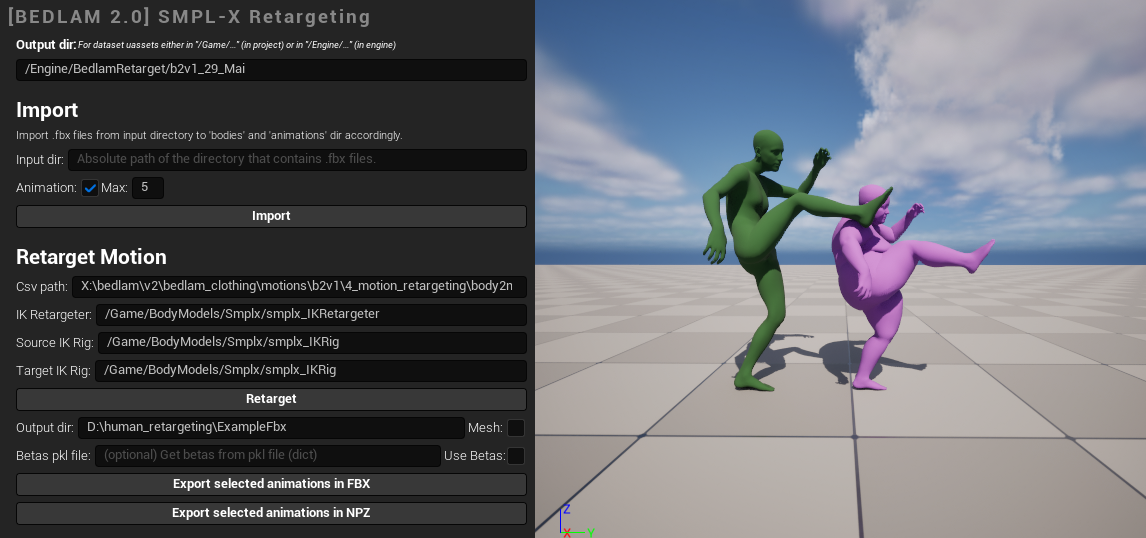
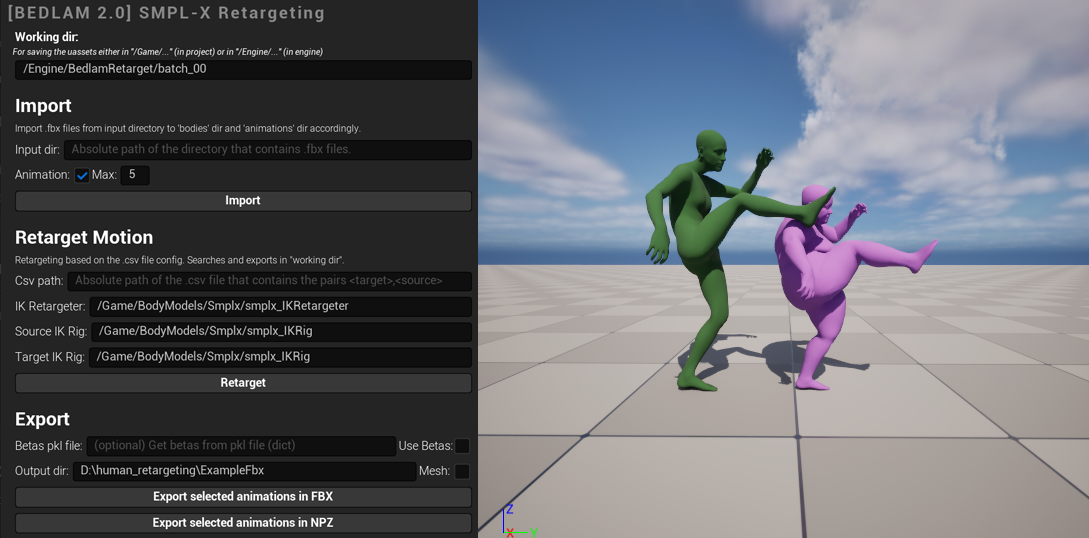
update readme & cleanup

diff --git a/README.md b/README.md
@@ -1,36 +1,45 @@
 # Retargeting for BEDLAM 2.0
 
-Retargeting transfers motion from one skeleton to another, enabling the augmentation of SMPL-X data with various body shapes while preserving motion quality.
+Retargeting transfers motion from one skeleton to another, enabling the augmentation of SMPL-X data with various body
+shapes while preserving motion quality.
 
-This repository contains the retargeting tool developed for [BEDLAM 2.0 NeurIPS 2025](https://bedlam2.is.tuebingen.mpg.de/), built on [Unreal Engine's IK Retargeter](https://dev.epicgames.com/documentation/en-us/unreal-engine/ik-rig-animation-retargeting-in-unreal-engine?application_version=5.3) by Epic Games.
+This repository contains the retargeting tool developed
+for [BEDLAM 2.0 NeurIPS 2025](https://bedlam2.is.tuebingen.mpg.de/), built
+on [Unreal Engine's IK Retargeter](https://dev.epicgames.com/documentation/en-us/unreal-engine/ik-rig-animation-retargeting-in-unreal-engine?application_version=5.3)
+by Epic Games.
 
 We provide two branches: `5.3` and `5.4`. Switch to the desired branch based on your Unreal Engine version.
 
-For the latest UE retargeting features, visit the [Unreal Engine documentation](https://dev.epicgames.com/documentation/en-us/unreal-engine/ik-rig-animation-retargeting-in-unreal-engine).
+For the latest UE retargeting features, visit
+the [Unreal Engine documentation](https://dev.epicgames.com/documentation/en-us/unreal-engine/ik-rig-animation-retargeting-in-unreal-engine).
 
 ### Requirements:
+
 - Unreal Engine 5.3 or 5.4 _(please switch to the desired branch)_
 - Enable Python plugin
-- Enable Python Foundation Packages Plugin (numpy) (optional for loading .npz files)
+- Enable Python Foundation Packages Plugin (numpy) (optional for using .npz files)
 - Enable Python Remote Execution
 
 ### Instructions:
 
 1. Open the project in Unreal Engine.
-2. Run the widget in the Unreal Engine Editor by Right-Clicking on the `Widgets/HumanEngineWidget` and selecting `Run Editor Utility Widget`.
+2. Run the widget in the Unreal Engine Editor by Right-Clicking on the `Widgets/HumanEngineWidget` and selecting
+   `Run Editor Utility Widget`.
 3. Import `.fbx` files: animations (sources) and bodies (targets), either using the widget or with `import_batch.py`.
-4. Retarget animations based on the `.csv file` pairs configuration, either using the widget or with `retarget_batch.py`.
+4. Retarget animations based on the `.csv file` pairs configuration, either using the widget or with
+   `retarget_batch.py`.
 5. Export the retargeted animations in `.fbx` files and/or `.npz (SMPL-X)` files.
 
 _Find details below!_
 
 ![widget.png](docs/widget.png)
+
 ### Dataset preparation (FBX files and CSV file)
 
 1. Prepare 2 directories:
     - `animations` directory with `.fbx` files (source animations).
     - `bodies` directory with `.fbx` files (target body).
-2. Prepare the `csv` file with the pairs configuration.
+2. Prepare the `csv` file with the pairs configuration (see [sample.csv](sample.csv)).
     - Example:
     - `target_body,source_anim\n`
     - `<target_body_a>,<source_animation_x>\n`.
@@ -48,7 +57,8 @@ cd retargeting\Content\Python
 python .\import_batch.py --input_dir <input_dir_of_fbx_files> --output_dir <output_abs_dir_of_uassets> --num_batches 10 --processes 5
 ```
 
-Or use the GUI, by clicking on `Import` button and setting the Animation toggle button, to import either bodies or animation from an `absolute path directory`.
+Or use the GUI, by clicking on `Import` button and setting the Animation toggle button, to import either bodies or
+animation from an `absolute path directory`.
 
 ### Make sure all animations and all skeletons are on the floor!
 
@@ -65,7 +75,8 @@ load/export them on the floor).
 
 We provide an example `SMPL-X IK Rig` (credits: **Joachim Tesch**).
 
-You may use your own IK Rig as well. If the source and target skeletons have different chain names, they must be mapped in the IK Retargeter.
+You may use your own IK Rig as well. If the source and target skeletons have different chain names, they must be mapped
+in the IK Retargeter.
 
 ![img.png](docs/IK_Rig.png)
 
@@ -77,9 +88,7 @@ You may use your own IK Rig as well. If the source and target skeletons have dif
 4. Uncheck `Animation` (boolean) to import the skeleton only -> saves in `{output_dir}/bodies/`.
 5. Define the `csv_file` using the names. Example: `target_body_a source_animation_x\n`.
 6. Click `Retarget` to retarget the animations -> saves in `{output_dir}/retargeting/`.
-7. Click `Export` to export the retargeted animations in `.fbx` files (with or without mesh) or `.npz` (SMPL-X without
-   betas).
-
+7. Click `Export` to export the retargeted animations in `.fbx` or `.npz` files.
 
 ### Retargeting with multiple processes (recommended)
 
@@ -93,85 +102,38 @@ Use the `retarget_batch.py` script to retarget animations with multiple processe
  --processes 10
 ```
 
-### Exporting (with/without betas but without bind_pose_height_offset)
+### Exporting FBX or NPZ files
 
 We can export the retargeted animations in `.fbx` files (with or without mesh) and/or `.npz` (SMPL-X params).
 
-For **simplicity**, we work only with `.fbx` files.
-
-To include the `betas` or `bind_pose_height_offset` we need to **load them back from the original ones**.
-
-**Optional feature:** Get the betas from `.pkl` file (dictionary with **key** as `target_name` and **value** as `betas`).
-See the widget for more info. 
-Do **NOT** use pandas to export the .pkl file as UE does not support it.
-
-
-#### Code snippet from `export_npz.py`:
-
-```python
-# Code from Joachim Tesch
-
-# But for simplicity, we don't load the betas or the bind_pose_height_offset
-for joint_name in SMPLX_JOINT_NAMES:
-
-    if joint_name == "pelvis":
-        pose = anim_pose.get_relative_to_ref_pose_transform(joint_name, space=unreal.AnimPoseSpaces.WORLD)
-
-        translation = pose.translation
-        t_x = translation.x / 100
-        t_y = -translation.y / 100  # Unreal SMPL-X bind pose Y-axis faces down
-        t_z = translation.z / 100
-        # (We ignore the bind_pose_height_offset, as we work only with .fbx files)
-        trans.append([t_x, t_y, t_z])
-    else:
-        pose = anim_pose.get_relative_to_ref_pose_transform(joint_name, space=unreal.AnimPoseSpaces.LOCAL)
-
-    rotation = pose.rotation
-    rotation_axis = rotation.get_rotation_axis()
-    rotation_angle = -rotation.get_angle()
-
-    rod_x = rotation_axis.x * rotation_angle
-    rod_y = -rotation_axis.y * rotation_angle  # Unreal SMPL-X bind pose Y-axis faces down
-    rod_z = rotation_axis.z * rotation_angle
-```
+To include the `betas` or `bind_pose_height_offset` (floor adjustment) we need to **load them back from the initial npz files**.
 
 #### Contents of exported `.npz` files:
 
-| key              | description                          |
-|------------------|--------------------------------------|
-| gender           | neutral                              |
-| mocap_frame_rate | 30.0                                 |
-| model            | smplx_locked_head                    |
-| betas            | np.zeros(10) or loaded from pkl file |
-| poses            | (frames, 165)                        |
-| trans            | (frames, 3)                          |
-| info             | Exported from UE version xx          |
+| key              | description                 |
+|------------------|-----------------------------|
+| gender           | neutral                     |
+| mocap_frame_rate | 30.0                        |
+| model            | smplx_locked_head           |
+| betas            | loaded from pkl file        |
+| poses            | (frames, 165)               |
+| trans            | (frames, 3)                 |
+| info             | Exported from UE version xx |
 
 **Visualization in Blender:**
 
 We can visualize the files in Blender using the `SMPL-X` Blender Plugin for the `.npz`.
-- `.fbx`: Metalic one, on the floor.
-- `.npz (with or without betas)`: No texture, below the floor (as the `bind_pose_height_offset` is ignored).
-
-![fbx_npz.png](docs/fbx_npz.png)
-
-### bind_pose_height_offset (NOT handled here)
-
-bind_pose_height_offset is **NOT** handled by this tool.
-
-For simplicity, in this tool we work only with `.fbx` files.
-
-Otherwise, we would need the `.npz` files that contain the `betas` and the `bind_pose_height_offset`.
-
-```python
-updated_transl = [ t_x, t_y + bind_pose_height_offset, t_z]
-```
 
 ### Next step of the pipeline
 
-*(After using this retargeting tool)*
+*After retargeting...*
 
-- We get the `betas` and `pose height offset` (from the original `.npz` files - as exported from Blender Plugin >=2024-Apr-05)
-- We re-compute the `pose height offset` that **brings the character to the correct height** (snapped on the floor) and we
-  change the `transl` accordingly (we don't use the `bind_pose_height_offset`).
-- Then, we continue with the `Clothing Simulation Pipeline`.
+- We use the `betas` and `pose height offset` (from the original `.npz` files - as exported from Blender Plugin >
+  =2024-Apr-05)
+- We update the `transl` accordingly `updated_transl = [t_x, t_y + bind_pose_height_offset, t_z]`.
+- Then, we continue with the `Clothing Simulation Pipeline` and `Rendering Pipeline`.
+
+
+### To-Do:
+- [ ] Code to prepare the `.fbx` files from SMPL-X npz files.
+- [ ] Code to adjust the translation based on the pose height offset.
